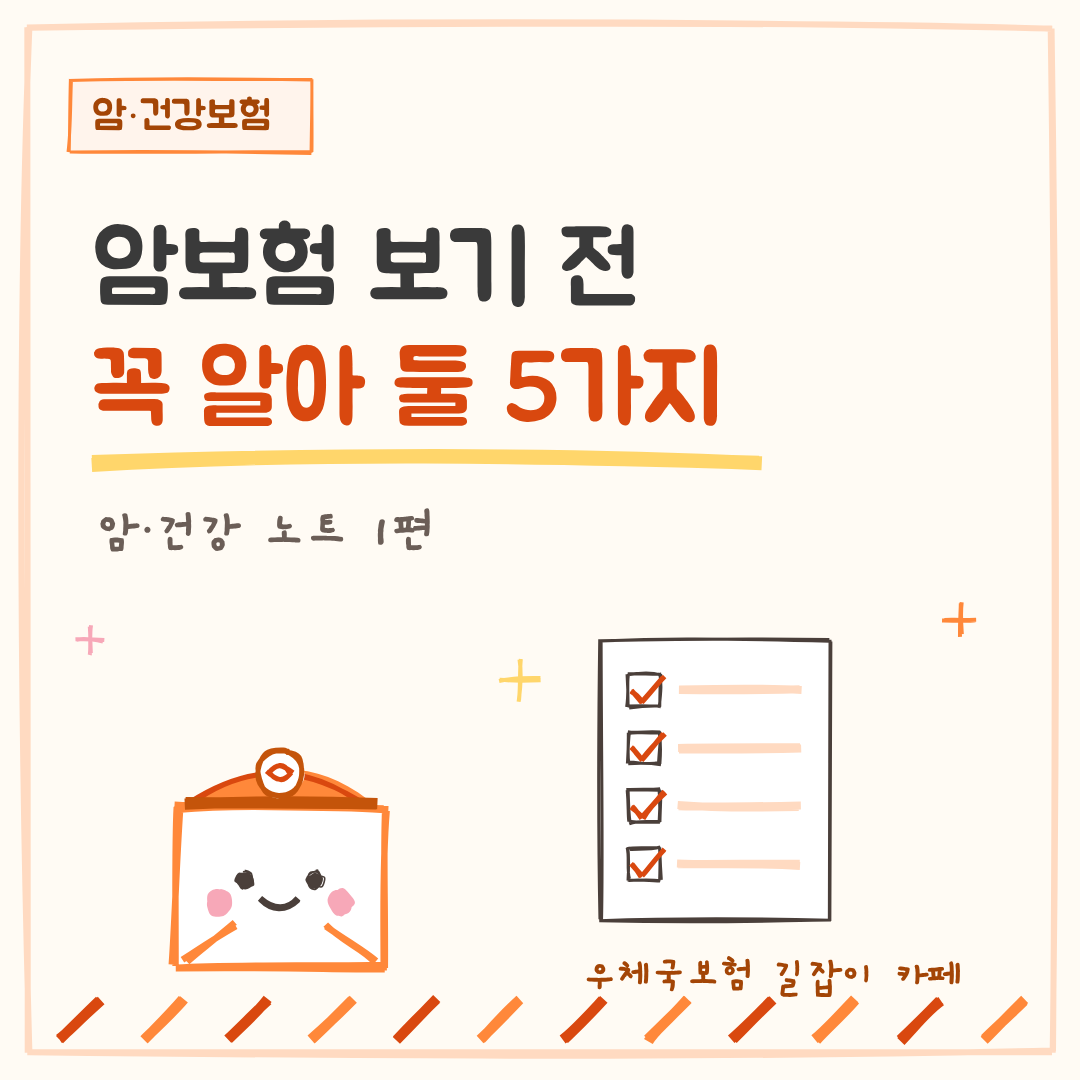
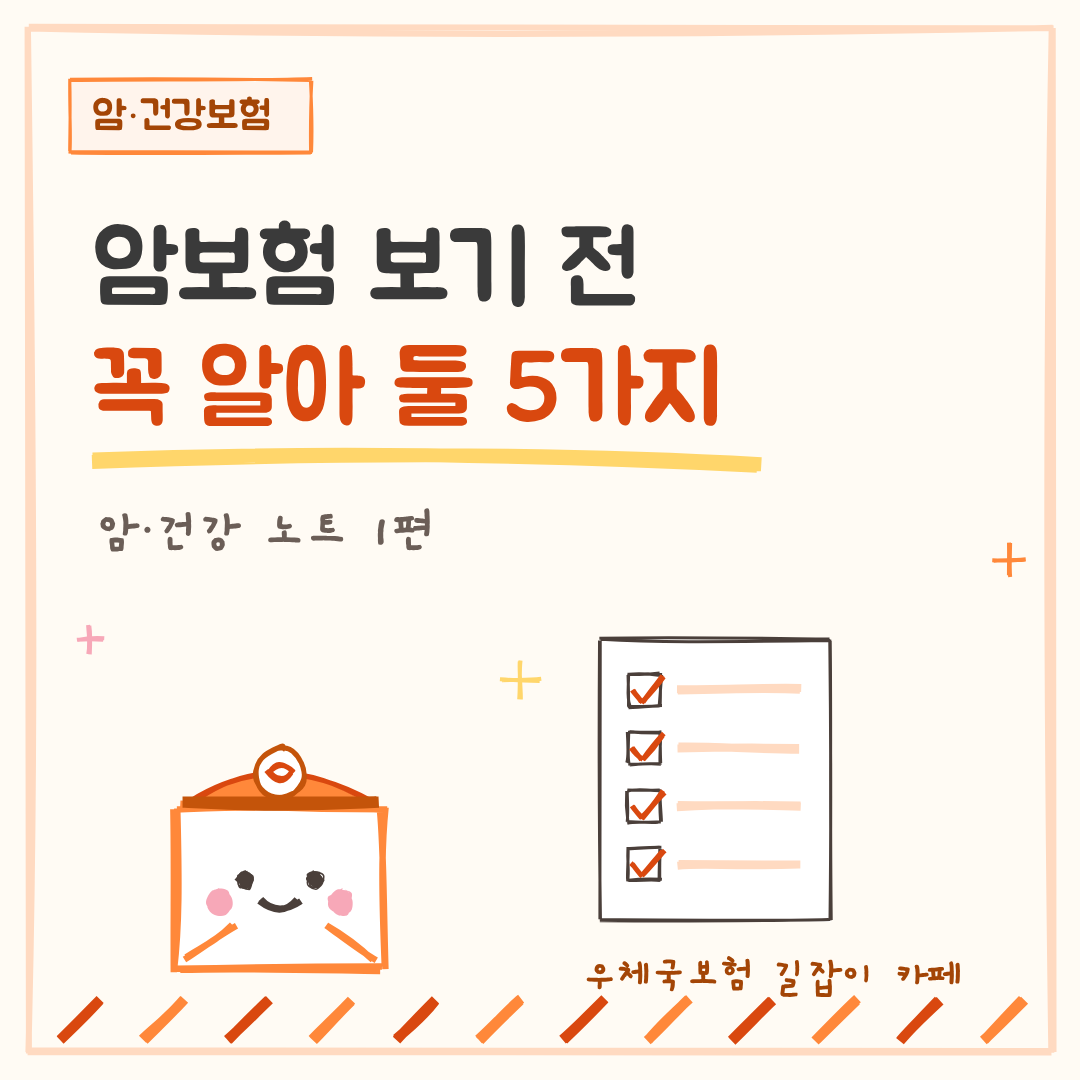
2편 그래프 손그림: 글자·선 겹침과 + 장식 겹침 수정
Claude-Session: https://claude.ai/code/session_01NDkHExbD7sg1GRU5d1kqZi

diff --git a/cafe/scripts/hand.html b/cafe/scripts/hand.html
@@ -72,8 +72,8 @@ const ICONS = {
     add(rc.path(`M${x + 30} ${y + 205} H${x + 120} V${y + 160} H${x + 210} V${y + 110} H${x + 300} V${y + 60} H${x + 330}`, { stroke: P.red, strokeWidth: 7, roughness: 1.1 }));
     add(rc.line(x + 30, y + 150, x + 330, y + 150, { stroke: "#2FA37F", strokeWidth: 7, roughness: 1.1 }));
     const lab = (s, lx, ly, color) => { const d = text("li", s, lx, ly); d.style.fontSize = "38px"; d.style.color = color; };
-    lab("갱신형", x + 238, y + 4, P.red);
-    lab("비갱신형", x + 150, y + 160, "#2FA37F");
+    lab("갱신형", x + 175, y + 40, P.red);
+    lab("비갱신형", x + 40, y + 98, "#2FA37F");
     lab("나이", x + 270, y + 258, P.ink);
   },
   heart(x, y) {
@@ -112,7 +112,7 @@ function thumb(d) {
   const s = text("sub", d.sub, 96, 500); fitAll([s], 880);
   ICONS[d.icon](600, 640);
   character(120, 720, 1.6);
-  sparkle(520, 680, 20, P.yellow); sparkle(960, 620, 16, P.orange); sparkle(90, 640, 14, P.pink);
+  sparkle(520, 680, 20, P.yellow); sparkle(1010, 560, 16, P.orange); sparkle(90, 640, 14, P.pink);
   text("brand", "우체국보험 길잡이 카페", 990, 950, "end");
 }
 
